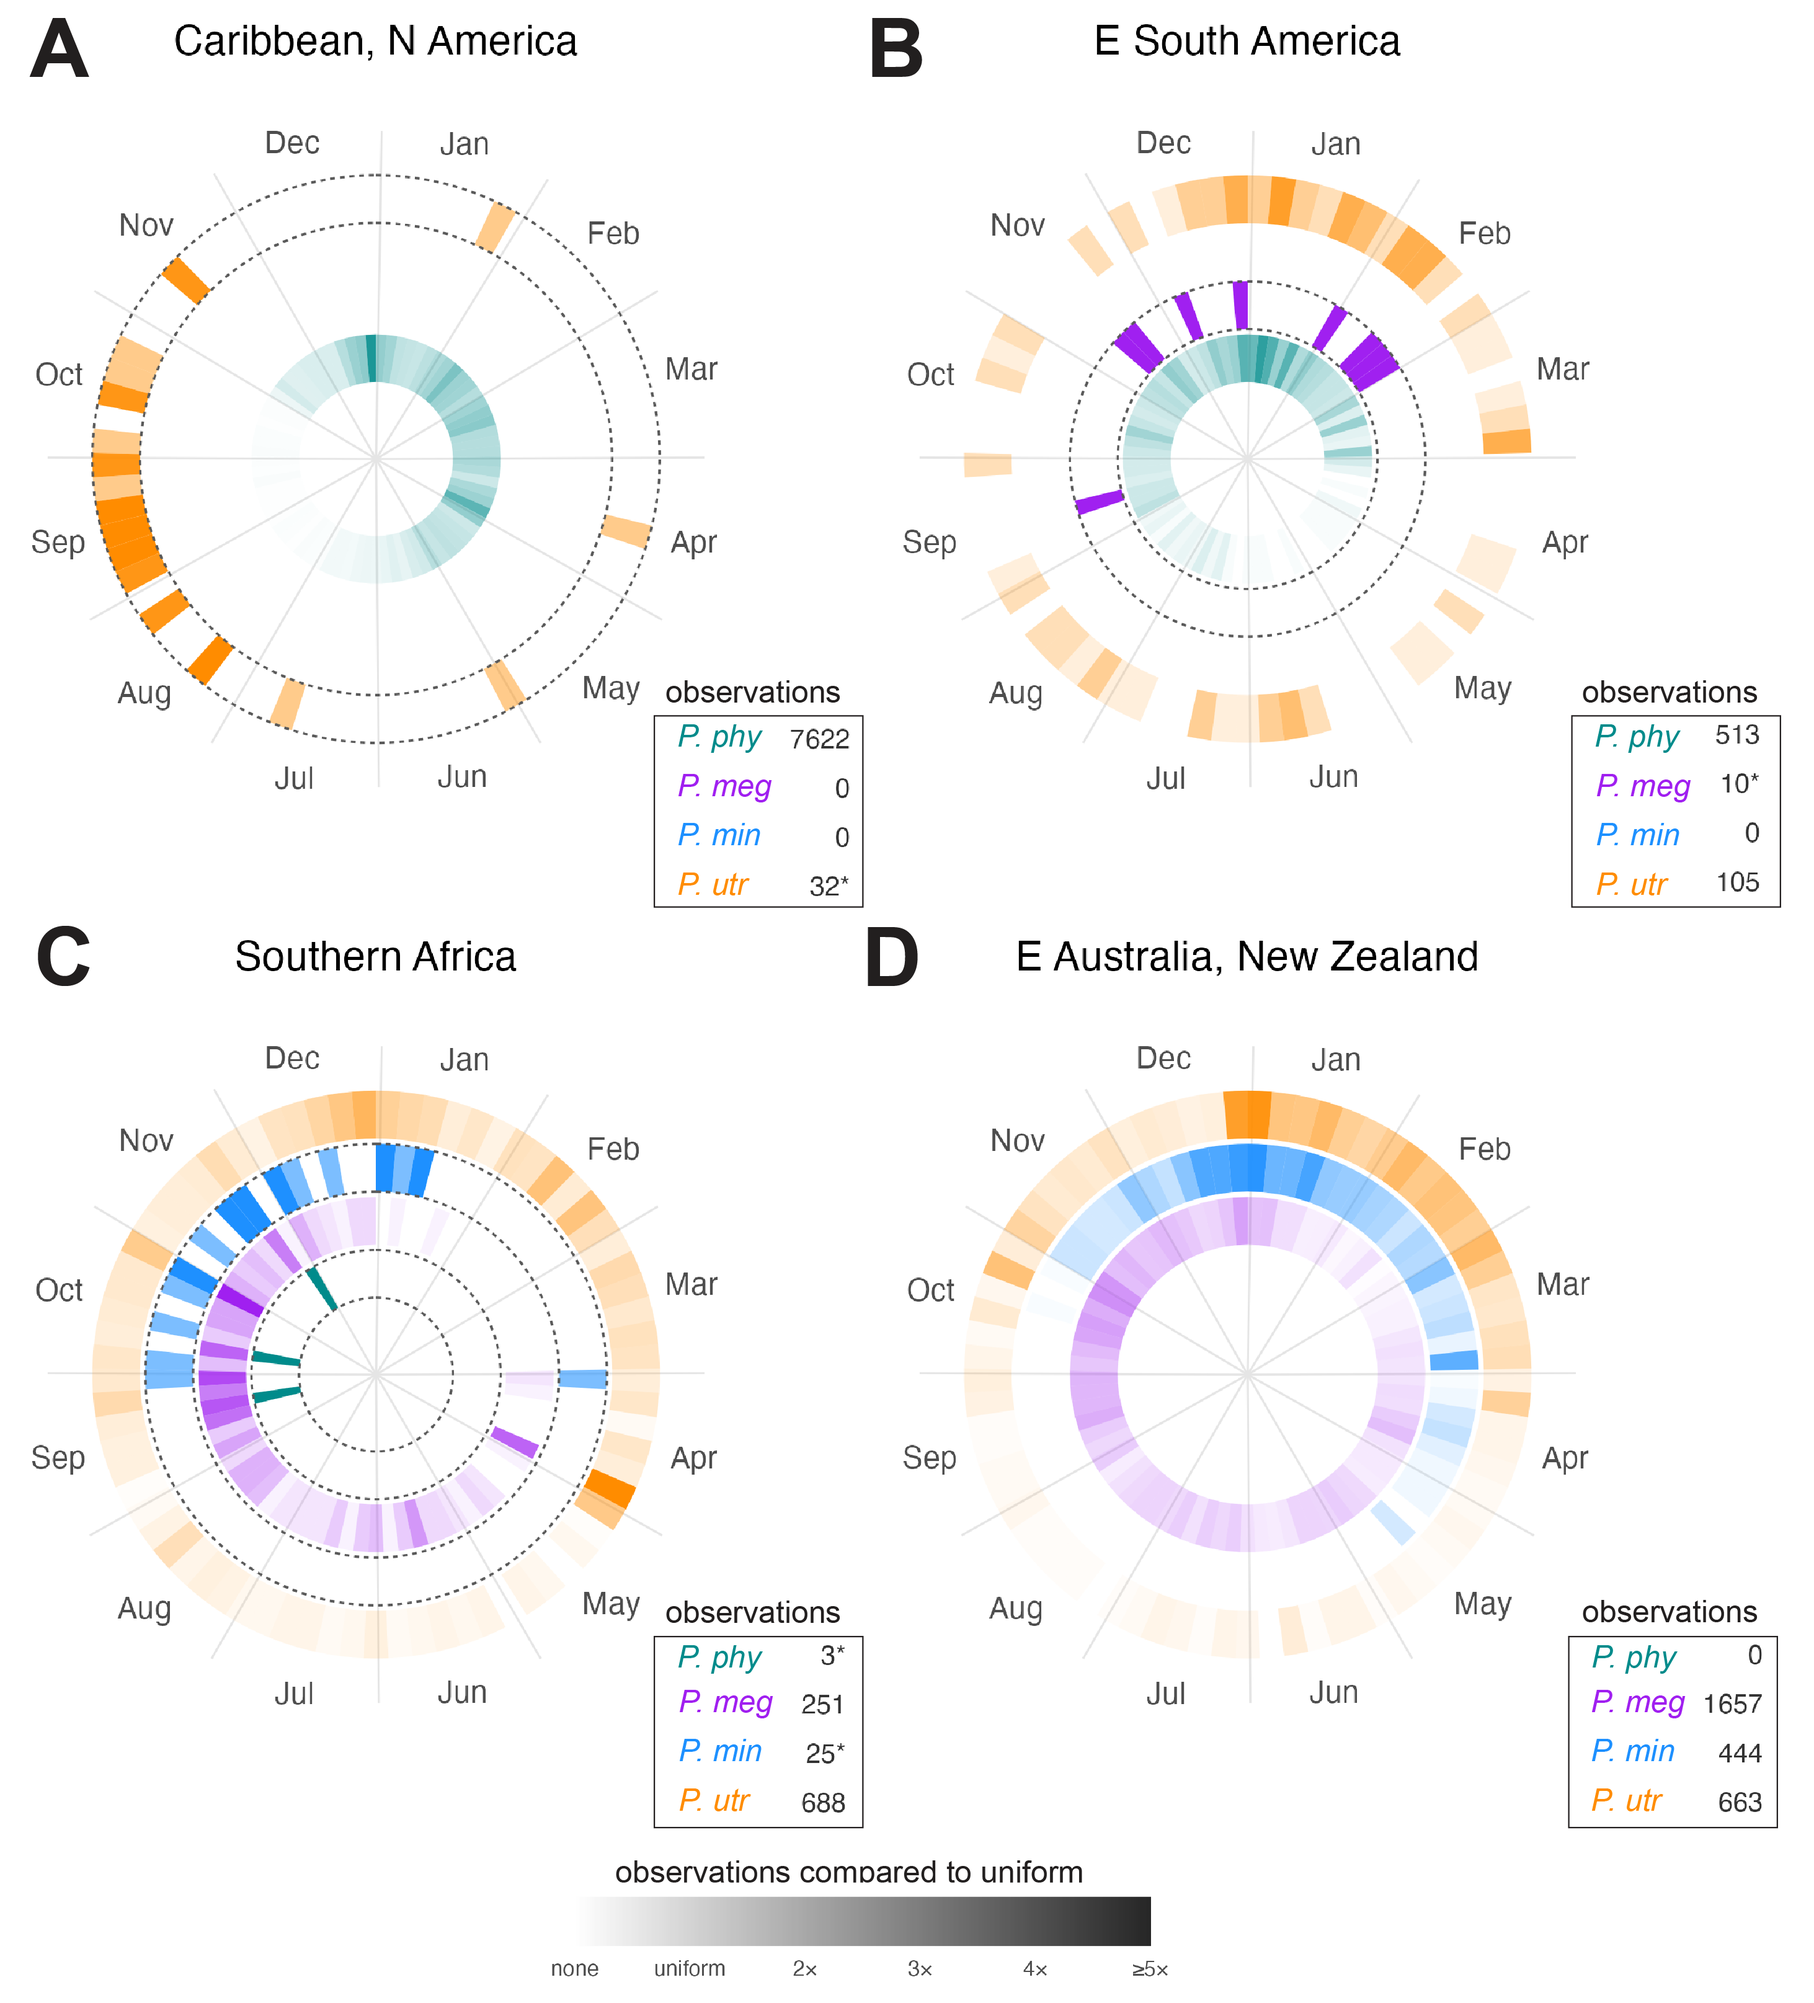
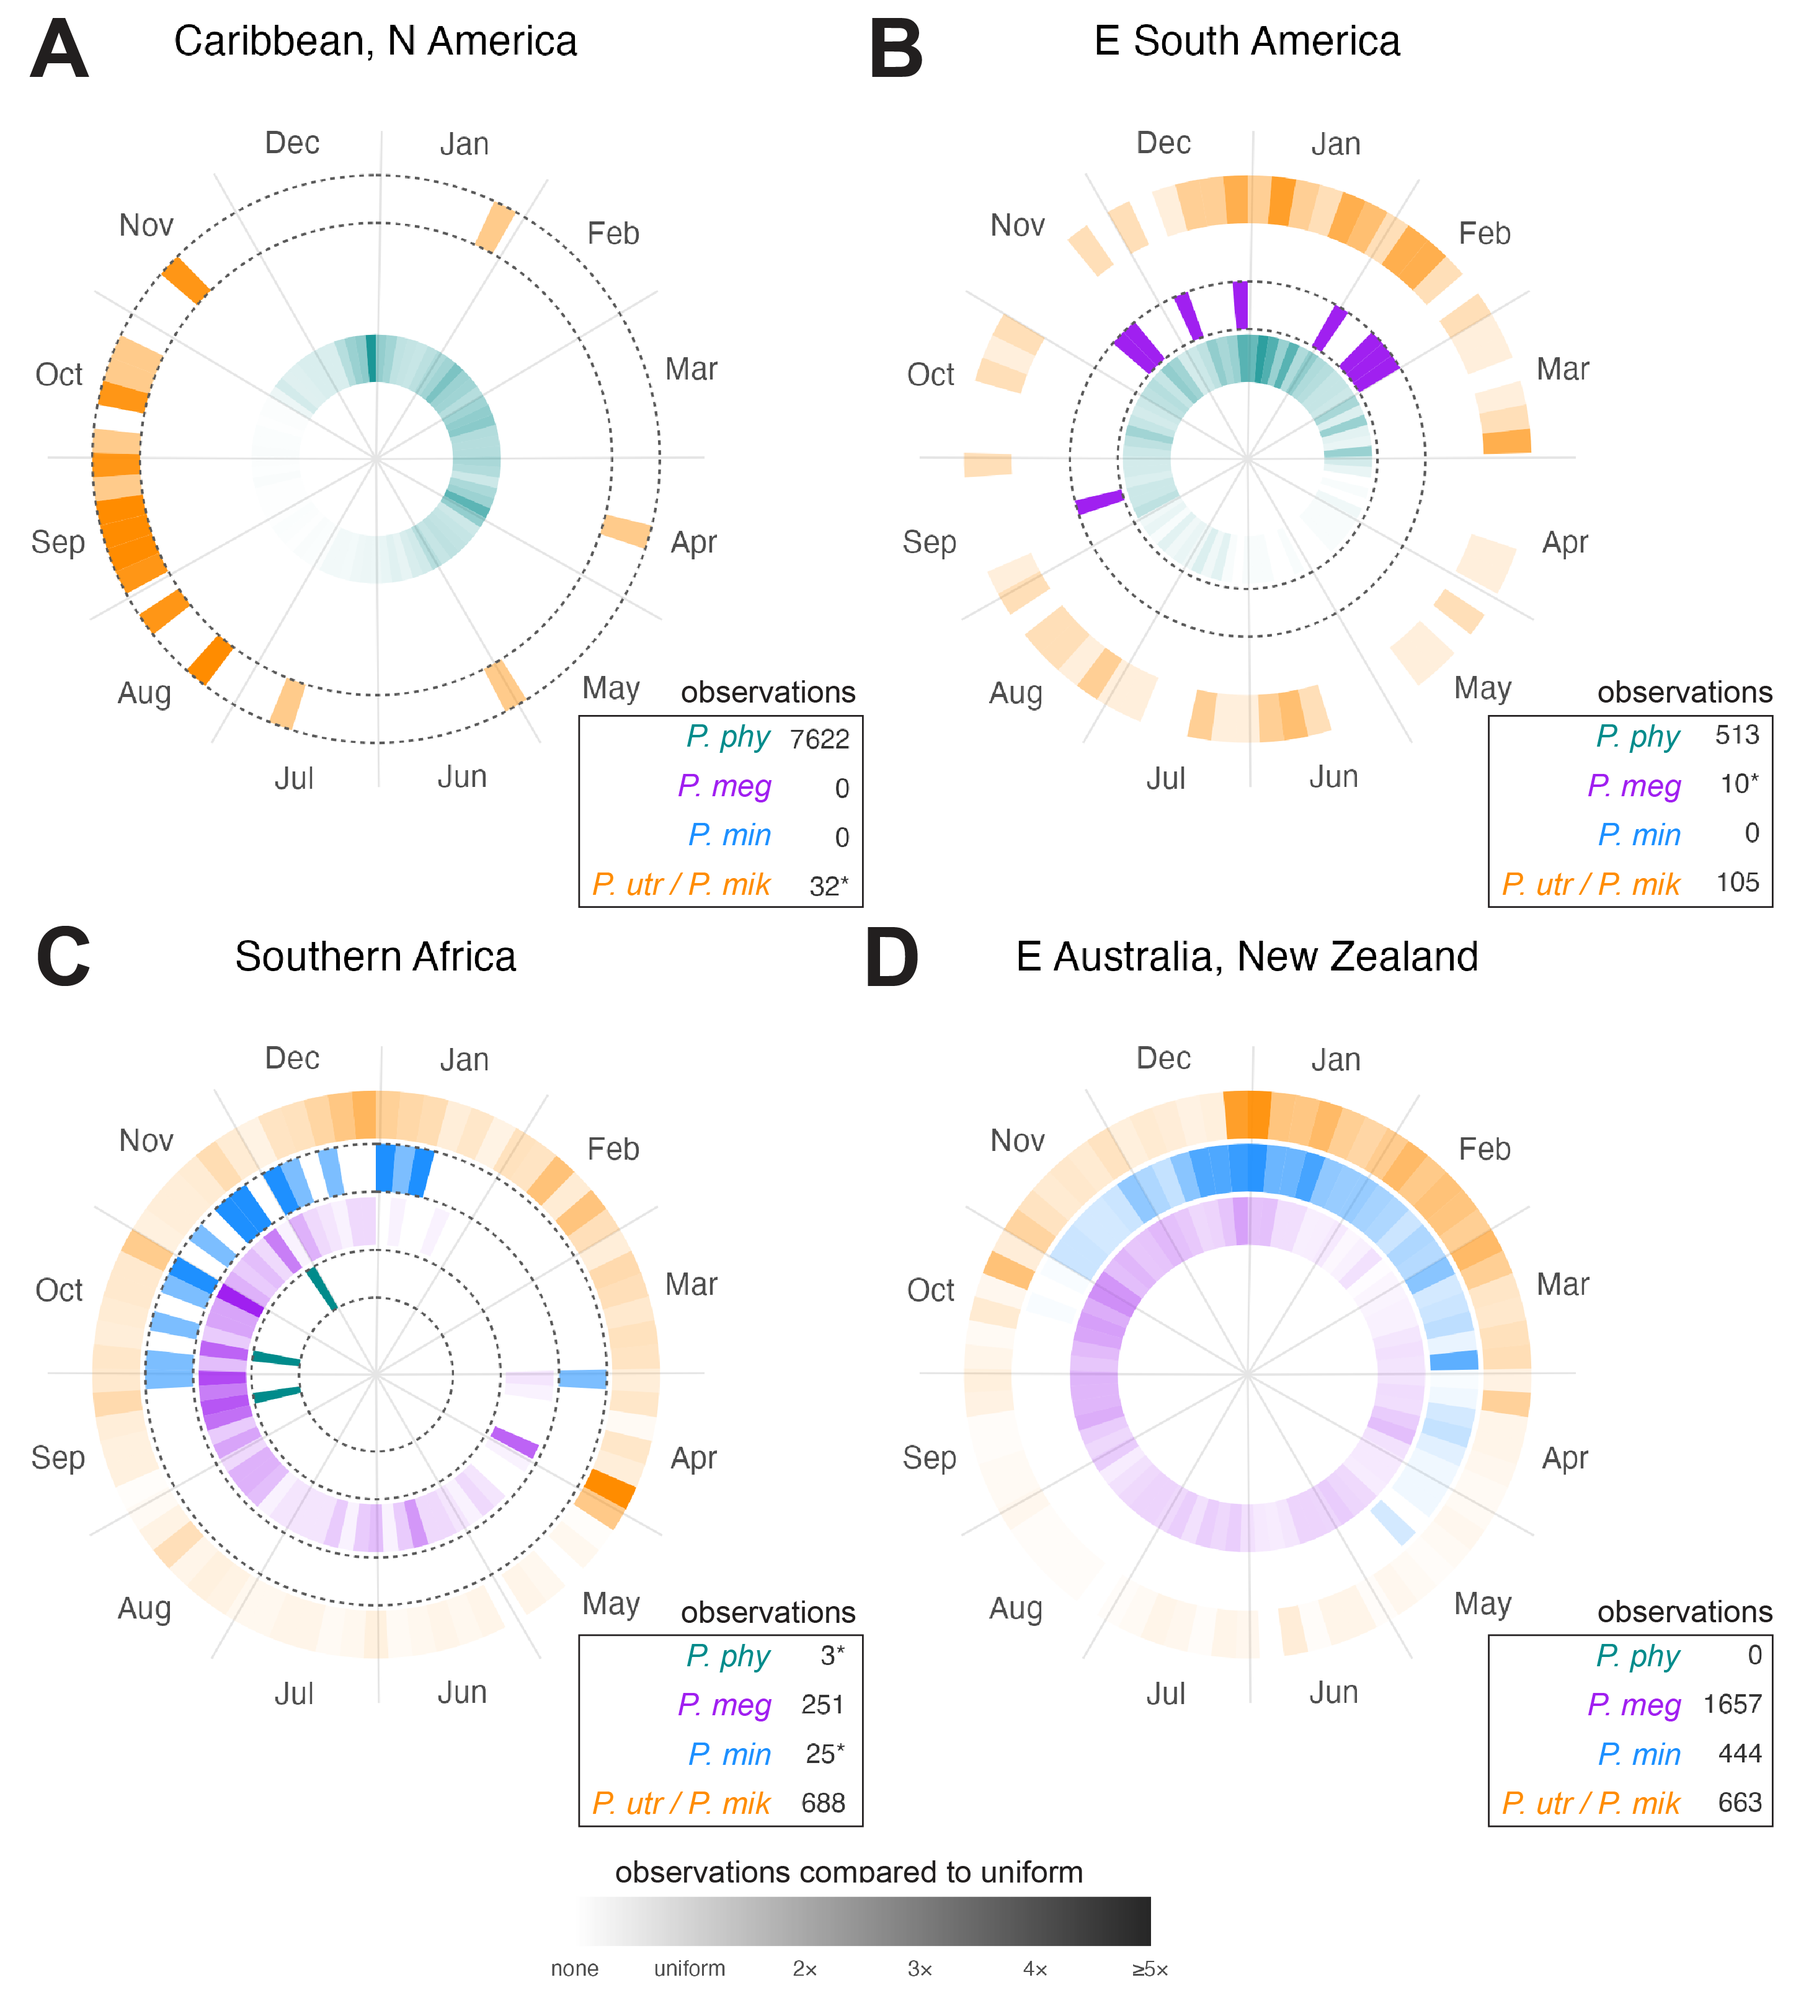
Recombine the seasonality figures by ocean basin
Figures 2 and 3 were split by space (quarterly maps, seasonality_space)
and time (radial wheels, seasonality_time) across four regions. They are
now two biogeographic figures, each pairing the maps and the
seasonally-weighted wheels for one basin: seasonality_atlantic.png
(Caribbean/N America, South America) and seasonality_pacific.png
(Southern Africa, E Australia/New Zealand).

The unweighted wheels stay as Fig S2 (seasonality_time.png) and the
daily-weighted as Fig S3. seasonality_time_norm_seasonal.png is dropped:
its wheels now live in the two main-text figures.

Other figure changes: the merged utriculus/mikazuki class is relabelled
in the classification, gradients and supplementary gradient figures; the
supplementary gradients now apply the three-record rule, which the
committed export predated and its caption already described; and
colony_organization gains orientation keys, labels the cluster base in
panel C, and drops the lateral view from panel B.

Manuscript: new framing sentence, two merged captions carrying the
species colours now that the artwork's key box is gone, remapped
crossrefs, and the Fig S2/S3 captions repointed off the removed
@fig-seasonality-time.

diff --git a/analysis/README.md b/analysis/README.md
@@ -99,7 +99,7 @@
  - `figures/panels/yearly_hist_<species>_<range>.pdf`: seasonal histograms faceted by year
  
  ### `seasonal_panels.R`
- **Role**: Panels for the combined seasonality figure, which supplies `figures/seasonality_time.png` and `figures/seasonality_space.png` (these replaced the former `seasonality_pacific_africa` and `seasonality_atlantic` figures). Covers four regions: eastern Australia/New Zealand, Southern Africa, the Caribbean/North America, and eastern South America.
+ **Role**: Panels for the combined seasonality figures. The maps and the seasonally-weighted wheels are assembled by ocean basin into `figures/seasonality_atlantic.png` and `figures/seasonality_pacific.png`; the unweighted and daily-weighted wheels supply the supplementary `figures/seasonality_time.png` and `figures/seasonality_time_norm_daily.png`. Covers four regions: eastern Australia/New Zealand, Southern Africa, the Caribbean/North America, and eastern South America.
 
  **How to run**: `Rscript analysis/seasonal_panels.R` from the repository root. Takes no arguments and does all four regions in one pass, unlike `seasonal_histograms.R` and `norm.R`, which want `i` set first.
 
